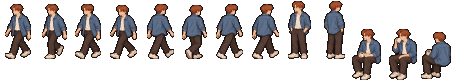
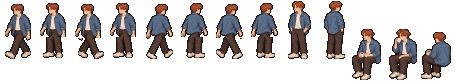
A real walk cycle, faster walking, sitting without a screen
The generated walk frames were one frozen stride, so walking looked like gliding. The
importer now builds an alternating cycle from the widest stride: stride, passing (feet
together, a 1px bob), the other stride (legs mirrored about the hips), passing. Walking is
faster (64 px/s, steps 105ms). Clicking a seat just walks you over and sits you down (no
screen); seats in the chill corner start the music.

diff --git a/src/components/cafe/engine/Play.tsx b/src/components/cafe/engine/Play.tsx
@@ -1,6 +1,7 @@
 import { useEffect, useRef, useState } from "react";
 import { Stage, useCompanions } from "./Stage";
 import { useMe } from "./useMe";
+import { seatOf } from "./walk";
 import { usePresence } from "./usePresence";
 import { CafeScreen } from "./Screens";
 import { WARDROBE, type Layout, type SpriteDef } from "./types";
@@ -82,7 +83,8 @@ export function Play({
       <Stage
         layout={layout}
         versions={versions}
-        interactive={(s) => !!s.hotspot && (!!screens[s.hotspot] || s.hotspot === WARDROBE) && !focus}
+        // seats are always clickable (to sit); other things when they open a screen
+        interactive={(s) => !focus && (!!seatOf(s) || (!!s.hotspot && (!!screens[s.hotspot] || s.hotspot === WARDROBE)))}
         hovered={focus ? null : hovered?.id ?? null}
         camera={focus ? { x: focus.x, y: focus.y, w: focus.w, h: focus.h } : null}
         light={lightAt(hour)}
@@ -91,7 +93,9 @@ export function Play({
           onPointerMove: (_, e) => setMouse({ x: e.clientX, y: e.clientY }),
           onPointerDown: (s, p) => {
             if (focus) return;
-            if (s?.hotspot) me.visit(s, () => visit(s));
+            // a seat: walk over and sit down, no screen (the chill corner starts the music)
+            if (s && seatOf(s)) me.visit(s, () => s.hotspot === "chill" && setMusic(true));
+            else if (s?.hotspot) me.visit(s, () => visit(s));
             else me.walkTo(p);
           },
         }}

diff --git a/src/components/cafe/engine/avatar.ts b/src/components/cafe/engine/avatar.ts
@@ -49,7 +49,7 @@ export const isLook = (p: People, l: Partial<Look> | null | undefined): l is Loo
 export const firstOutfit = (p: People, person: string) => p.people[person]?.[0] ?? "original";
 
 // a walking frame: four steps per stride
-export const walkPose = (back: boolean, t: number, stepMs = 130): Pose =>
+export const walkPose = (back: boolean, t: number, stepMs = 105): Pose =>
   `walk-${back ? "back" : "front"}-${(Math.floor(t / stepMs) % 4) + 1}` as Pose;
 // sitting facing you, a sip of coffee now and then (every ~7s, for ~1.4s), offset per person
 export const sitPose = (back: boolean, t: number, seed = 0): Pose =>

diff --git a/src/components/cafe/engine/useMe.ts b/src/components/cafe/engine/useMe.ts
@@ -8,7 +8,7 @@ import type { Actor, Companion } from "./Stage";
 // The visitor's own avatar: walks in, walks wherever you click (around the furniture), walks
 // up to things before their screen opens, and sits in seats.
 
-const SPEED = 42; // px per second across the screen
+const SPEED = 64; // px per second across the screen
 const nameOf = (file: string) => file.replace(/^sprites\//, "").replace(/\.png$/, "");
 
 type Seated = { x: number; y: number; lift: number; back: boolean; flip: boolean; z: number; seat: SpriteDef };

diff --git a/src/components/cafe/engine/usePresence.ts b/src/components/cafe/engine/usePresence.ts
@@ -13,7 +13,7 @@ const URL = import.meta.env.VITE_SUPABASE_URL as string | undefined;
 const KEY = import.meta.env.VITE_SUPABASE_PUBLISHABLE_KEY as string | undefined;
 const ROOM = "cafe";
 const CAPACITY = 40; // more than this and newcomers watch without an avatar
-const SPEED = 42; // px/s, same as your own avatar
+const SPEED = 64; // px/s, same as your own avatar
 const MAX_PATH = 120;
 
 const client = URL && KEY ? createClient(URL, KEY, { realtime: { params: { eventsPerSecond: 8 } } }) : null;

diff --git a/art/import_people.py b/art/import_people.py
@@ -154,6 +154,45 @@ def outline(im):
     return out
 
 
+def make_gait(frames, fw, anchor):
+    """The generated walk frames are all one stride with small wobbles, so walking looked like
+    gliding. Build a real alternating cycle per direction from the widest stride:
+      1 stride (as generated)  2 passing (feet together, 1px up)  3 the other stride (legs
+      mirrored about the body's centre)  4 passing."""
+    arr = np.asarray(frames).copy()
+    ax, ay = anchor
+    get = lambda n: arr[:, ORDER.index(n) * fw : (ORDER.index(n) + 1) * fw].copy()
+
+    def spread(f):
+        low = (f[..., 3] > 0)[ay - 4 : ay]
+        xs = np.nonzero(low.any(0))[0]
+        return xs.max() - xs.min() if len(xs) else 0
+
+    for d in ("front", "back"):
+        A = max((get(f"walk-{d}-{i}") for i in range(1, 5)), key=spread)
+        solid = A[..., 3] > 0
+        ys = np.nonzero(solid.any(1))[0]
+        top = ys[0]
+        hip = top + int((ay - top) * 0.62)  # below this: the legs
+        cx = int(np.median(np.nonzero(solid[top + int((ay - top) * 0.3) : top + int((ay - top) * 0.55)])[1]))
+        B = A.copy()
+        B[hip:] = 0
+        for x in range(fw):
+            mx = 2 * cx - x
+            if 0 <= mx < fw:
+                col = A[hip:, x]
+                B[hip:, mx] = np.where(col[:, 3:4] > 0, col, B[hip:, mx])
+        S = get(f"stand-{d}")
+        passing = np.zeros_like(A)
+        passing[:hip] = A[:hip]
+        passing[hip:] = np.where(S[hip:, :, 3:4] > 0, S[hip:], 0)
+        passing = np.roll(passing, -1, axis=0)  # a little bob
+        for i, f in enumerate((A, passing, B, passing), start=1):
+            k = ORDER.index(f"walk-{d}-{i}")
+            arr[:, k * fw : (k + 1) * fw] = f
+    return Image.fromarray(arr)
+
+
 def import_character(path, name):
     sheet = Image.open(path).convert("RGBA")
     boxes = find_poses(sheet)
@@ -192,6 +231,7 @@ def import_character(path, name):
         s = small[p]
         ax, ay = anchors[p]
         frames.alpha_composite(s, (i * fw + left - ax, up - ay))
+    frames = make_gait(frames, fw, (left, up))
     os.makedirs(OUT, exist_ok=True)
     frames.save(os.path.join(OUT, f"{name}.png"))
     return {"frame": [int(fw), int(fh)], "anchor": [int(left), int(up)], "frames": ORDER}
